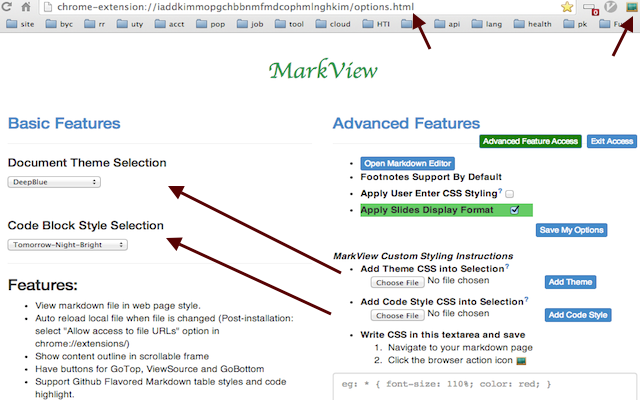
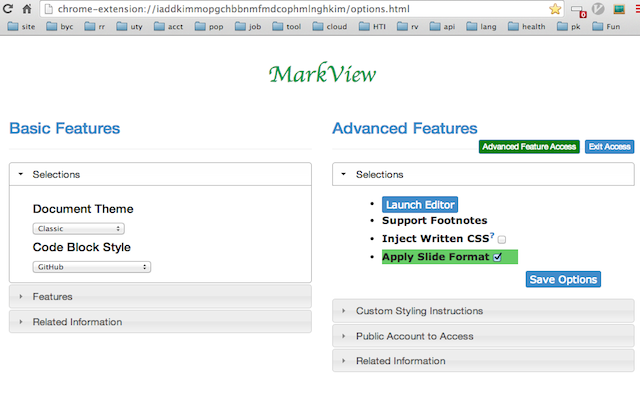
update

diff --git a/_posts/2014-01-23-markview-advanced-features.md b/_posts/2014-01-23-markview-advanced-features.md
@@ -90,7 +90,7 @@ Location: `chrome-extension://iaddkimmopgchbbnmfmdcophmlnghkim/options.html`
 
 
 #### 4. Slides Presentation Feature
-  1. Select checkbox "Use Slide Style" and click "Save My Options"
+  1. Select checkbox "Apply Slide Format" and click "Save Options"
   2. Navigate to your markdown page (file has "---" at the end to seperate each slide )
   3. Click the browser action icon, Slides will show up.
   4. Use keyboard's ^ and v to select slides themes, use > and < to go through each slide.
